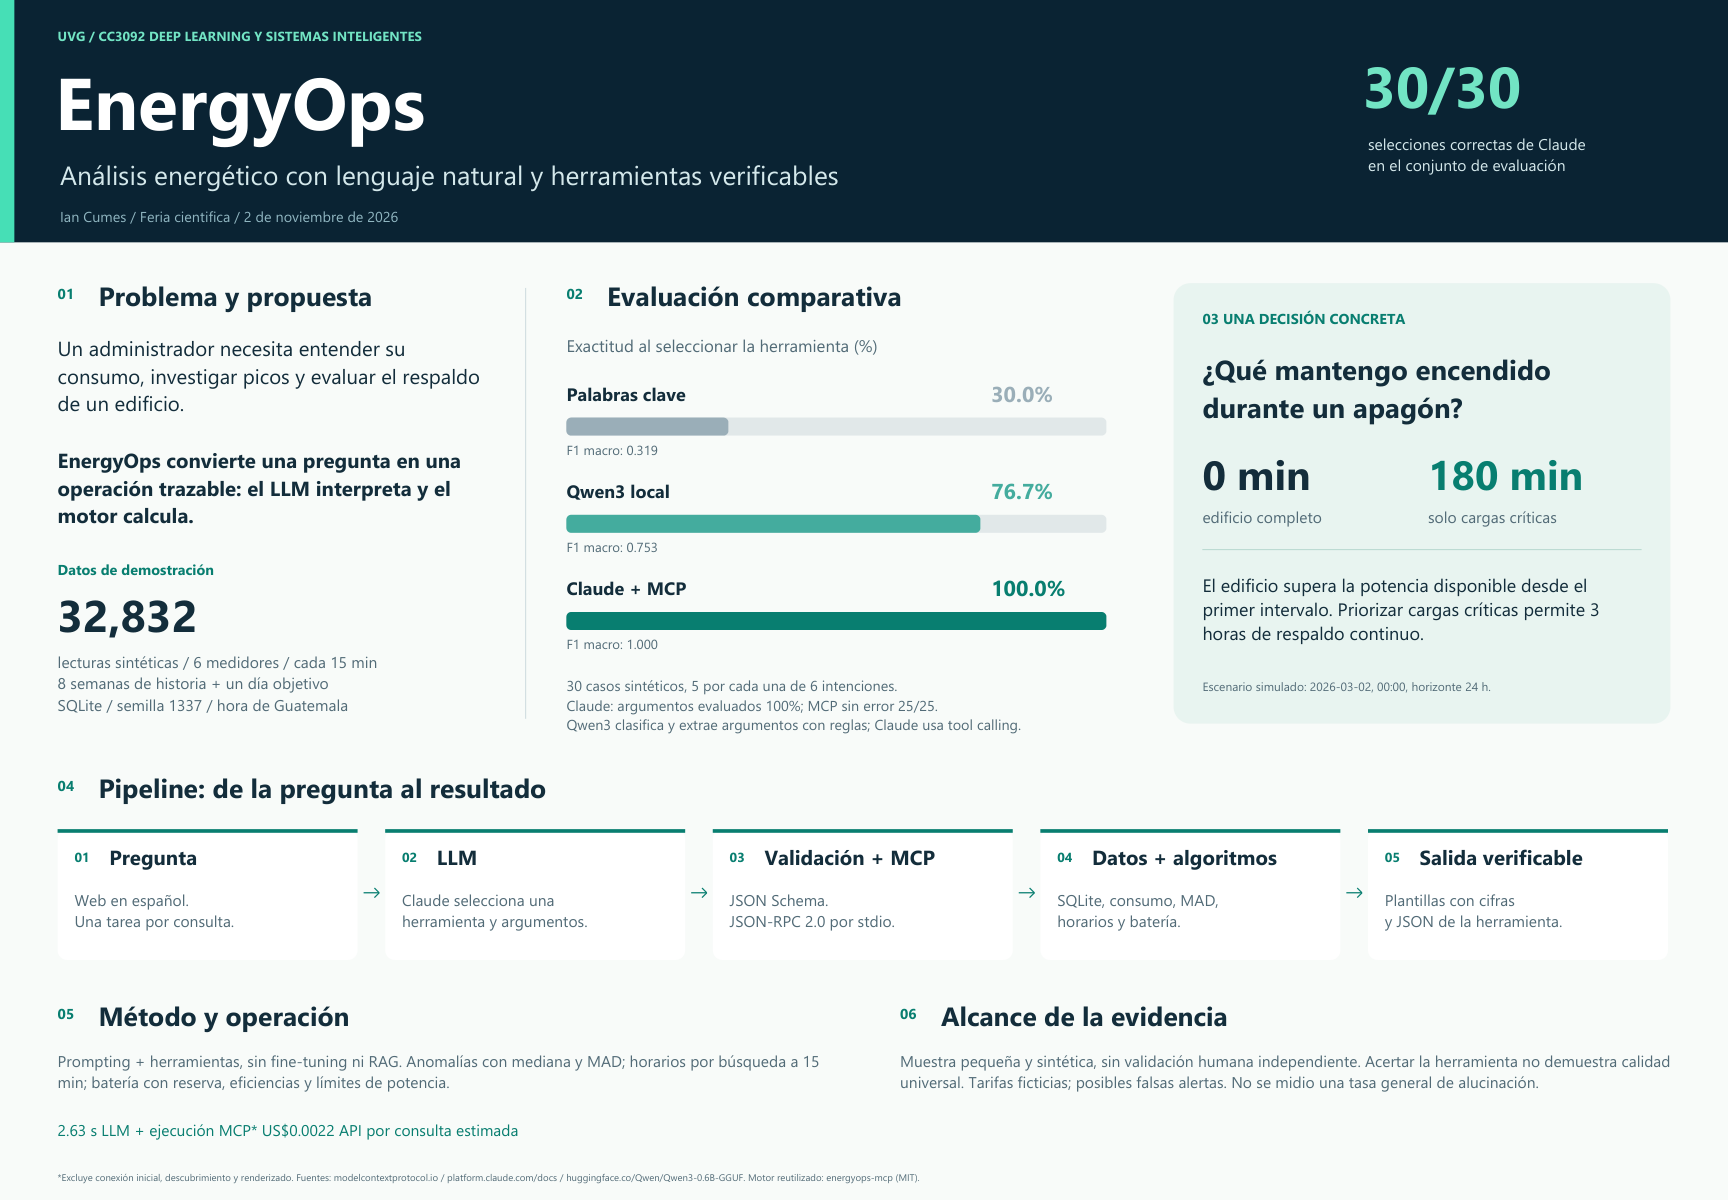
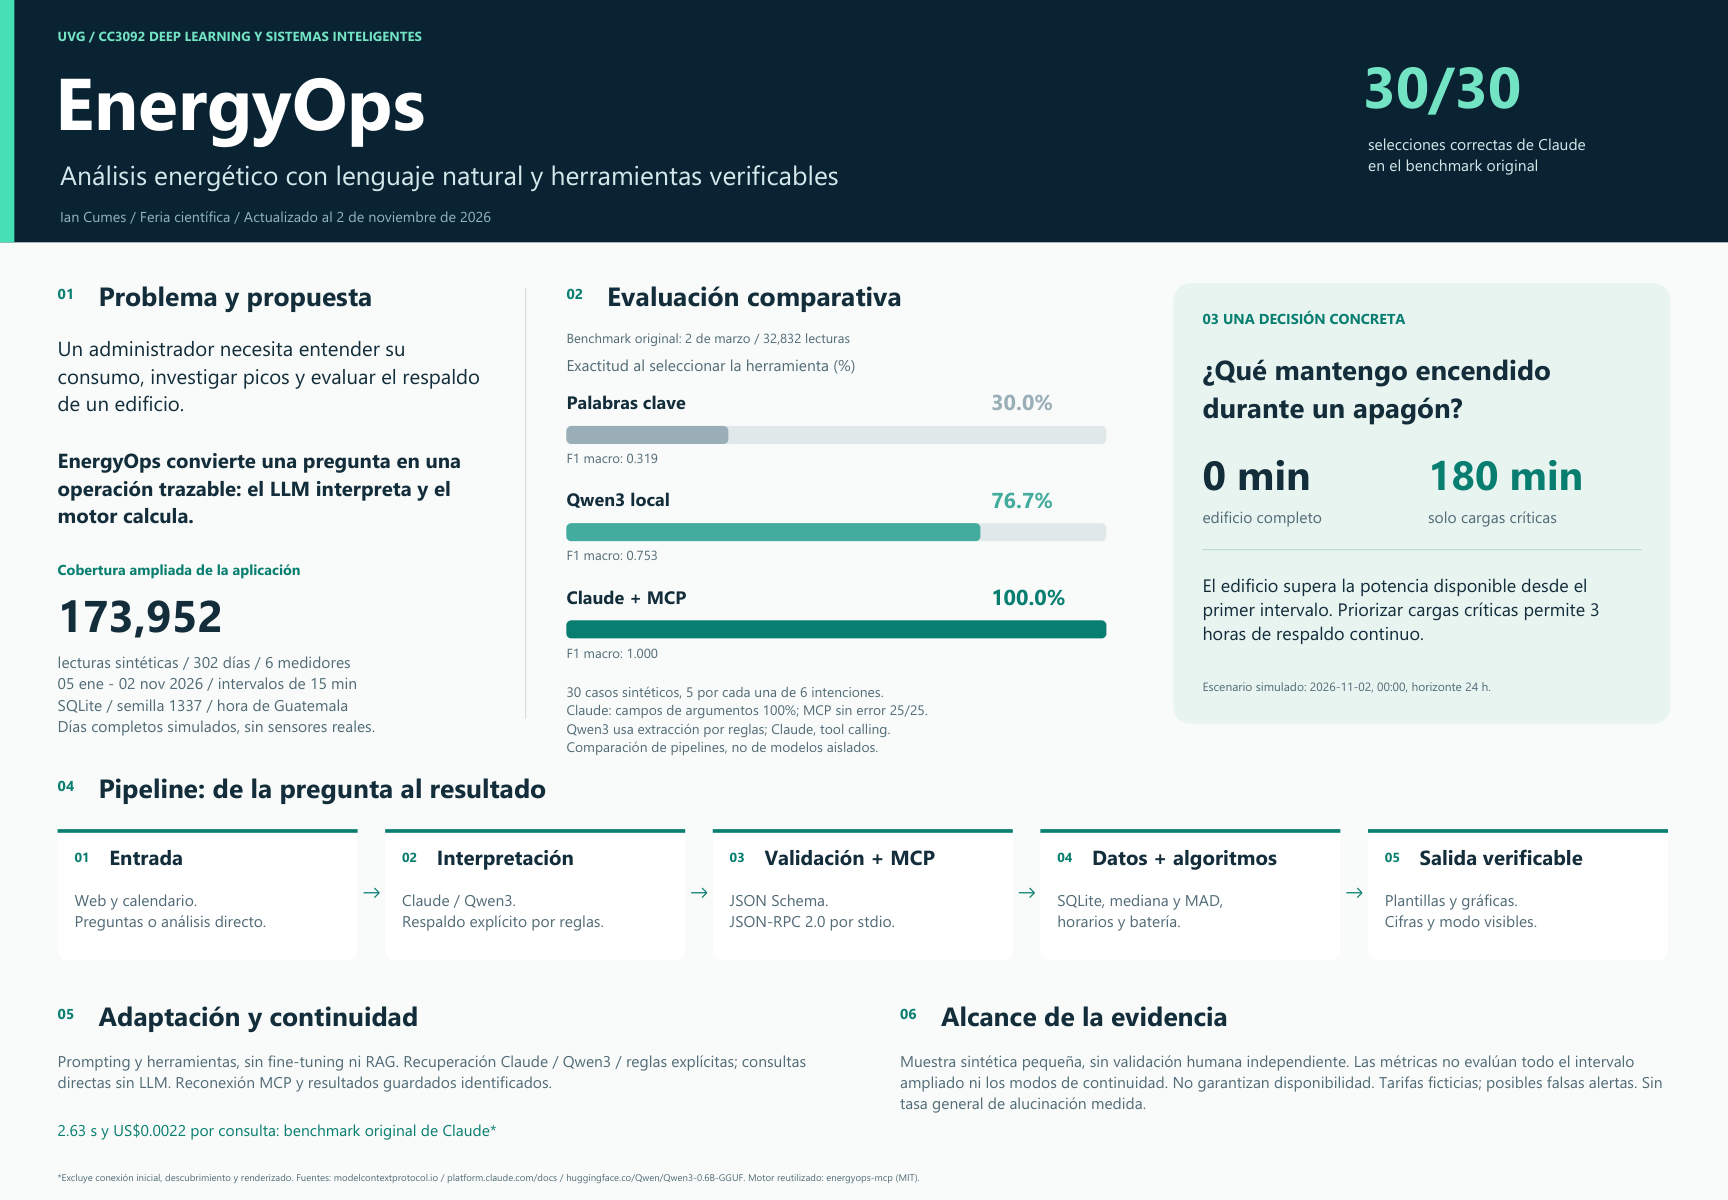
Update scientific poster with expanded coverage and continuity architecture

diff --git a/build_poster.py b/build_poster.py
@@ -14,8 +14,9 @@ ROOT=Path(__file__).resolve().parent
 def main():
     s=json.loads((ROOT/'evaluation/results.json').read_text(encoding='utf-8'))['summary']
     local=json.loads((ROOT/'evaluation/results_local.json').read_text(encoding='utf-8'))['summary']
-    examples=json.loads((ROOT/'evaluation/examples.json').read_text(encoding='utf-8'))
-    outage=next(e['data'] for e in examples if e['tool']=='simulate_outage')
+    snapshot=json.loads((ROOT/'evaluation/poster_current_snapshot.json').read_text(encoding='utf-8'))
+    coverage=snapshot['overview']
+    outage=snapshot['outage']['data']
     out=ROOT/'output/pdf';out.mkdir(parents=True,exist_ok=True)
     for n,file in [('Regular','segoeui.ttf'),('Bold','segoeuib.ttf')]:
         pdfmetrics.registerFont(TTFont(n,str(Path('C:/Windows/Fonts')/file)))
@@ -40,28 +41,29 @@ def main():
     txt('UVG  /  CC3092 DEEP LEARNING Y SISTEMAS INTELIGENTES',48,23,11,'#73e5c5',True,1000)
     txt('EnergyOps',46,47,61,'#ffffff',True,950)
     txt('Análisis energético con lenguaje natural y herramientas verificables',50,132,22,'#d4e8ec',False,1040)
-    txt('Ian Cumes  /  Feria cientifica  /  2 de noviembre de 2026',50,173,12,'#91b7c2',False,1000)
+    txt('Ian Cumes  /  Feria científica  /  Actualizado al 2 de noviembre de 2026',50,173,12,'#91b7c2',False,1000)
     txt(f"{round(s['route_accuracy']*s['n'])}/{s['n']}",1136,42,48,'#73e5c5',True,270)
-    txt('selecciones correctas de Claude<br/>en el conjunto de evaluación',1140,112,13,'#d4e8ec',False,250)
+    txt('selecciones correctas de Claude<br/>en el benchmark original',1140,112,13,'#d4e8ec',False,250)
     # Upper row: the problem, comparative evidence and a concrete decisión.
     section('01','Problema y propuesta',48,237,375)
     txt('Un administrador necesita entender su consumo, investigar picos y evaluar el respaldo de un edificio.',48,280,17,ink,False,360)
     txt('EnergyOps convierte una pregunta en una operación trazable: el LLM interpreta y el motor calcula.',48,373,17,ink,True,360)
-    txt('Datos de demostración',48,467,12,teal,True,360)
-    txt('32,832',48,490,37,ink,True,360)
-    txt('lecturas sintéticas / 6 medidores / cada 15 min<br/>8 semanas de historia + un día objetivo<br/>SQLite / semilla 1337 / hora de Guatemala',48,544,13,muted,False,370)
+    txt('Cobertura ampliada de la aplicación',48,467,12,teal,True,360)
+    txt(f"{coverage['readings']:,}",48,490,37,ink,True,360)
+    txt(f"lecturas sintéticas / {coverage['days']} días / 6 medidores<br/>05 ene - 02 nov 2026 / intervalos de 15 min<br/>SQLite / semilla 1337 / hora de Guatemala<br/>Días completos simulados, sin sensores reales.",48,544,13,muted,False,370)
     line(438,240,438,599)
     section('02','Evaluación comparativa',472,237,470)
-    txt('Exactitud al seleccionar la herramienta (%)',472,279,14,muted,False,460)
+    txt('Benchmark original: 2 de marzo / 32,832 lecturas',472,275,11,muted,False,460)
+    txt('Exactitud al seleccionar la herramienta (%)',472,296,13,muted,False,460)
     bars=[('Palabras clave',s['baseline_accuracy'],s['baseline_macro_f1'],'#9aaeb8'),('Qwen3 local',local['route_accuracy'],local['macro_f1'],'#44ad9f'),('Claude + MCP',s['route_accuracy'],s['macro_f1'],teal)]
-    y=319
+    y=326
     for label,value,f1,color in bars:
         txt(label,472,y,15,ink,True,260)
         txt(f'{value:.1%}',826,y-2,18,color,True,110)
         rect(472,y+29,450,15,'#e1e9ea',4);rect(472,y+29,450*value,15,color,4)
         txt(f'F1 macro: {f1:.3f}',472,y+49,11,muted,False,450)
         y+=81
-    txt('30 casos sintéticos, 5 por cada una de 6 intenciones.<br/>Claude: argumentos evaluados 100%; MCP sin error 25/25.<br/>Qwen3 clasifica y extrae argumentos con reglas; Claude usa tool calling.',472,564,12,muted,False,470)
+    txt('30 casos sintéticos, 5 por cada una de 6 intenciones.<br/>Claude: campos de argumentos 100%; MCP sin error 25/25.<br/>Qwen3 usa extracción por reglas; Claude, tool calling.<br/>Comparación de pipelines, no de modelos aislados.',472,569,11.5,muted,False,470)
     rect(978,236,414,367,light,14)
     txt('03   UNA DECISIÓN CONCRETA',1002,258,12,teal,True,365)
     txt('¿Qué mantengo encendido<br/>durante un apagón?',1002,294,23,ink,True,365)
@@ -70,11 +72,12 @@ def main():
     txt('edificio completo',1002,423,13,muted,False,175)
     txt('solo cargas críticas',1190,423,13,muted,False,180)
     line(1002,458,1368,458,'#bddbd3')
-    txt('El edificio supera la potencia disponible desde el primer intervalo. Priorizar cargas críticas permite 3 horas de respaldo continuo.',1002,478,15,ink,False,365)
-    txt('Escenario simulado: 2026-03-02, 00:00, horizonte 24 h.',1002,566,10,muted,False,365)
+    hours=outage['critical_only']['autonomy_minutes']/60
+    txt(f'El edificio supera la potencia disponible desde el primer intervalo. Priorizar cargas críticas permite {hours:g} horas de respaldo continuo.',1002,478,15,ink,False,365)
+    txt(f"Escenario simulado: {snapshot['scenario_date']}, 00:00, horizonte 24 h.",1002,566,10,muted,False,365)
     # Architecture diagram as a single horizontal reading path.
     section('04','Pipeline: de la pregunta al resultado',48,647,1200)
-    steps=[('01','Pregunta','Web en español.<br/>Una tarea por consulta.'),('02','LLM','Claude selecciona una<br/>herramienta y argumentos.'),('03','Validación + MCP','JSON Schema.<br/>JSON-RPC 2.0 por stdio.'),('04','Datos + algoritmos','SQLite, consumo, MAD,<br/>horarios y batería.'),('05','Salida verificable','Plantillas con cifras<br/>y JSON de la herramienta.')]
+    steps=[('01','Entrada','Web y calendario.<br/>Preguntas o análisis directo.'),('02','Interpretación','Claude / Qwen3.<br/>Respaldo explícito por reglas.'),('03','Validación + MCP','JSON Schema.<br/>JSON-RPC 2.0 por stdio.'),('04','Datos + algoritmos','SQLite, mediana y MAD,<br/>horarios y batería.'),('05','Salida verificable','Plantillas y gráficas.<br/>Cifras y modo visibles.')]
     for i,(num,title,body) in enumerate(steps):
         x=48+i*273
         rect(x,691,250,109,'#ffffff',8)
@@ -84,11 +87,11 @@ def main():
         if i<4:
             line(x+255,744,x+268,744,teal);line(x+268,744,x+264,740,teal);line(x+268,744,x+264,748,teal)
     # Lower row: method, operational measures and limitations.
-    section('05','Método y operación',48,837,670)
-    txt('Prompting + herramientas, sin fine-tuning ni RAG. Anomalías con mediana y MAD; horarios por búsqueda a 15 min; batería con reserva, eficiencias y límites de potencia.',48,876,13,muted,False,650)
-    txt(f"<b>{s['mean_e2e_latency_s']:.2f} s</b> LLM + ejecución MCP*     <b>US${s['estimated_cost_usd']/s['n']:.4f}</b> API por consulta estimada",48,934,13,teal,False,660)
+    section('05','Adaptación y continuidad',48,837,670)
+    txt('Prompting y herramientas, sin fine-tuning ni RAG. Recuperación Claude / Qwen3 / reglas explícitas; consultas directas sin LLM. Reconexión MCP y resultados guardados identificados.',48,876,13,muted,False,650)
+    txt(f"<b>{s['mean_e2e_latency_s']:.2f} s</b> y <b>US${s['estimated_cost_usd']/s['n']:.4f}</b> por consulta: benchmark original de Claude*",48,934,13,teal,False,660)
     section('06','Alcance de la evidencia',750,837,642)
-    txt('Muestra pequeña y sintética, sin validación humana independiente. Acertar la herramienta no demuestra calidad universal. Tarifas ficticias; posibles falsas alertas. No se midio una tasa general de alucinación.',750,876,13,muted,False,642)
+    txt('Muestra sintética pequeña, sin validación humana independiente. Las métricas no evalúan todo el intervalo ampliado ni los modos de continuidad. No garantizan disponibilidad. Tarifas ficticias; posibles falsas alertas. Sin tasa general de alucinación medida.',750,876,13,muted,False,642)
     txt('*Excluye conexión inicial, descubrimiento y renderizado. Fuentes: modelcontextprotocol.io / platform.claude.com/docs / huggingface.co/Qwen/Qwen3-0.6B-GGUF. Motor reutilizado: energyops-mcp (MIT).',48,976,8,muted,False,1344)
     c.save()
     with pymupdf.open(out/'Poster_EnergyOps.pdf') as doc:

diff --git a/GUIA_PARA_PRESENTAR.md b/GUIA_PARA_PRESENTAR.md
@@ -6,7 +6,7 @@ La aplicación actual permite consultar **datos simulados del 5 de enero al 2 de
 
 Si Claude falla, intenta Qwen3; si tampoco está disponible, puede continuar con reglas básicas, siempre indicando ese modo. Cuando faltan datos o algún parámetro no es válido, conserva la pregunta y ofrece sugerencias. En “Consultas recientes” puedes abrir resultados anteriores, identificados como guardados. La aplicación ya no depende de que Qwen3 esté disponible para abrirse.
 
-**El pitch, el póster, las preguntas de ejemplo y las métricas que siguen describen el escenario original del 2 de marzo.** Se mantienen como referencia de la feria. El conjunto original tiene 32,832 lecturas; no confundas ese benchmark con la cobertura ampliada de la aplicación. Los datos de hoy también son sintéticos, de día completo, no lecturas en tiempo real.
+**El pitch, las preguntas de ejemplo y las métricas que siguen describen el escenario original del 2 de marzo. El póster actualizado incorpora la cobertura ampliada y distingue esas métricas históricas.** Se mantienen como referencia de la feria. El conjunto original tiene 32,832 lecturas; no confundas ese benchmark con la cobertura ampliada de la aplicación. Los datos de hoy también son sintéticos, de día completo, no lecturas en tiempo real.
 
 
 

diff --git a/README.md b/README.md
@@ -10,7 +10,7 @@ Ante fechas sin cobertura, parámetros inválidos o fallas de servicio se conser
 
 `INICIAR.cmd` abre la aplicación aunque no esté disponible el modelo local. Claude y los análisis directos pueden usarse por separado. Las dependencias básicas de Python siguen siendo necesarias.
 
-**Evaluación original:** `runtime.sqlite3`, el benchmark, el póster y el video conservan el escenario del 2 de marzo y sus 32,832 lecturas. Las lecturas originales se preservan sin cambios al extender el generador. Las métricas históricas no representan una evaluación de los modos de recuperación ni de todo el intervalo ampliado.
+**Evaluación original:** `runtime.sqlite3`, el benchmark y el video conservan el escenario del 2 de marzo y sus 32,832 lecturas. El póster actualizado presenta la cobertura ampliada y diferencia las métricas históricas. Las lecturas originales se preservan sin cambios al extender el generador. Las métricas históricas no representan una evaluación de los modos de recuperación ni de todo el intervalo ampliado.
 
 
 
